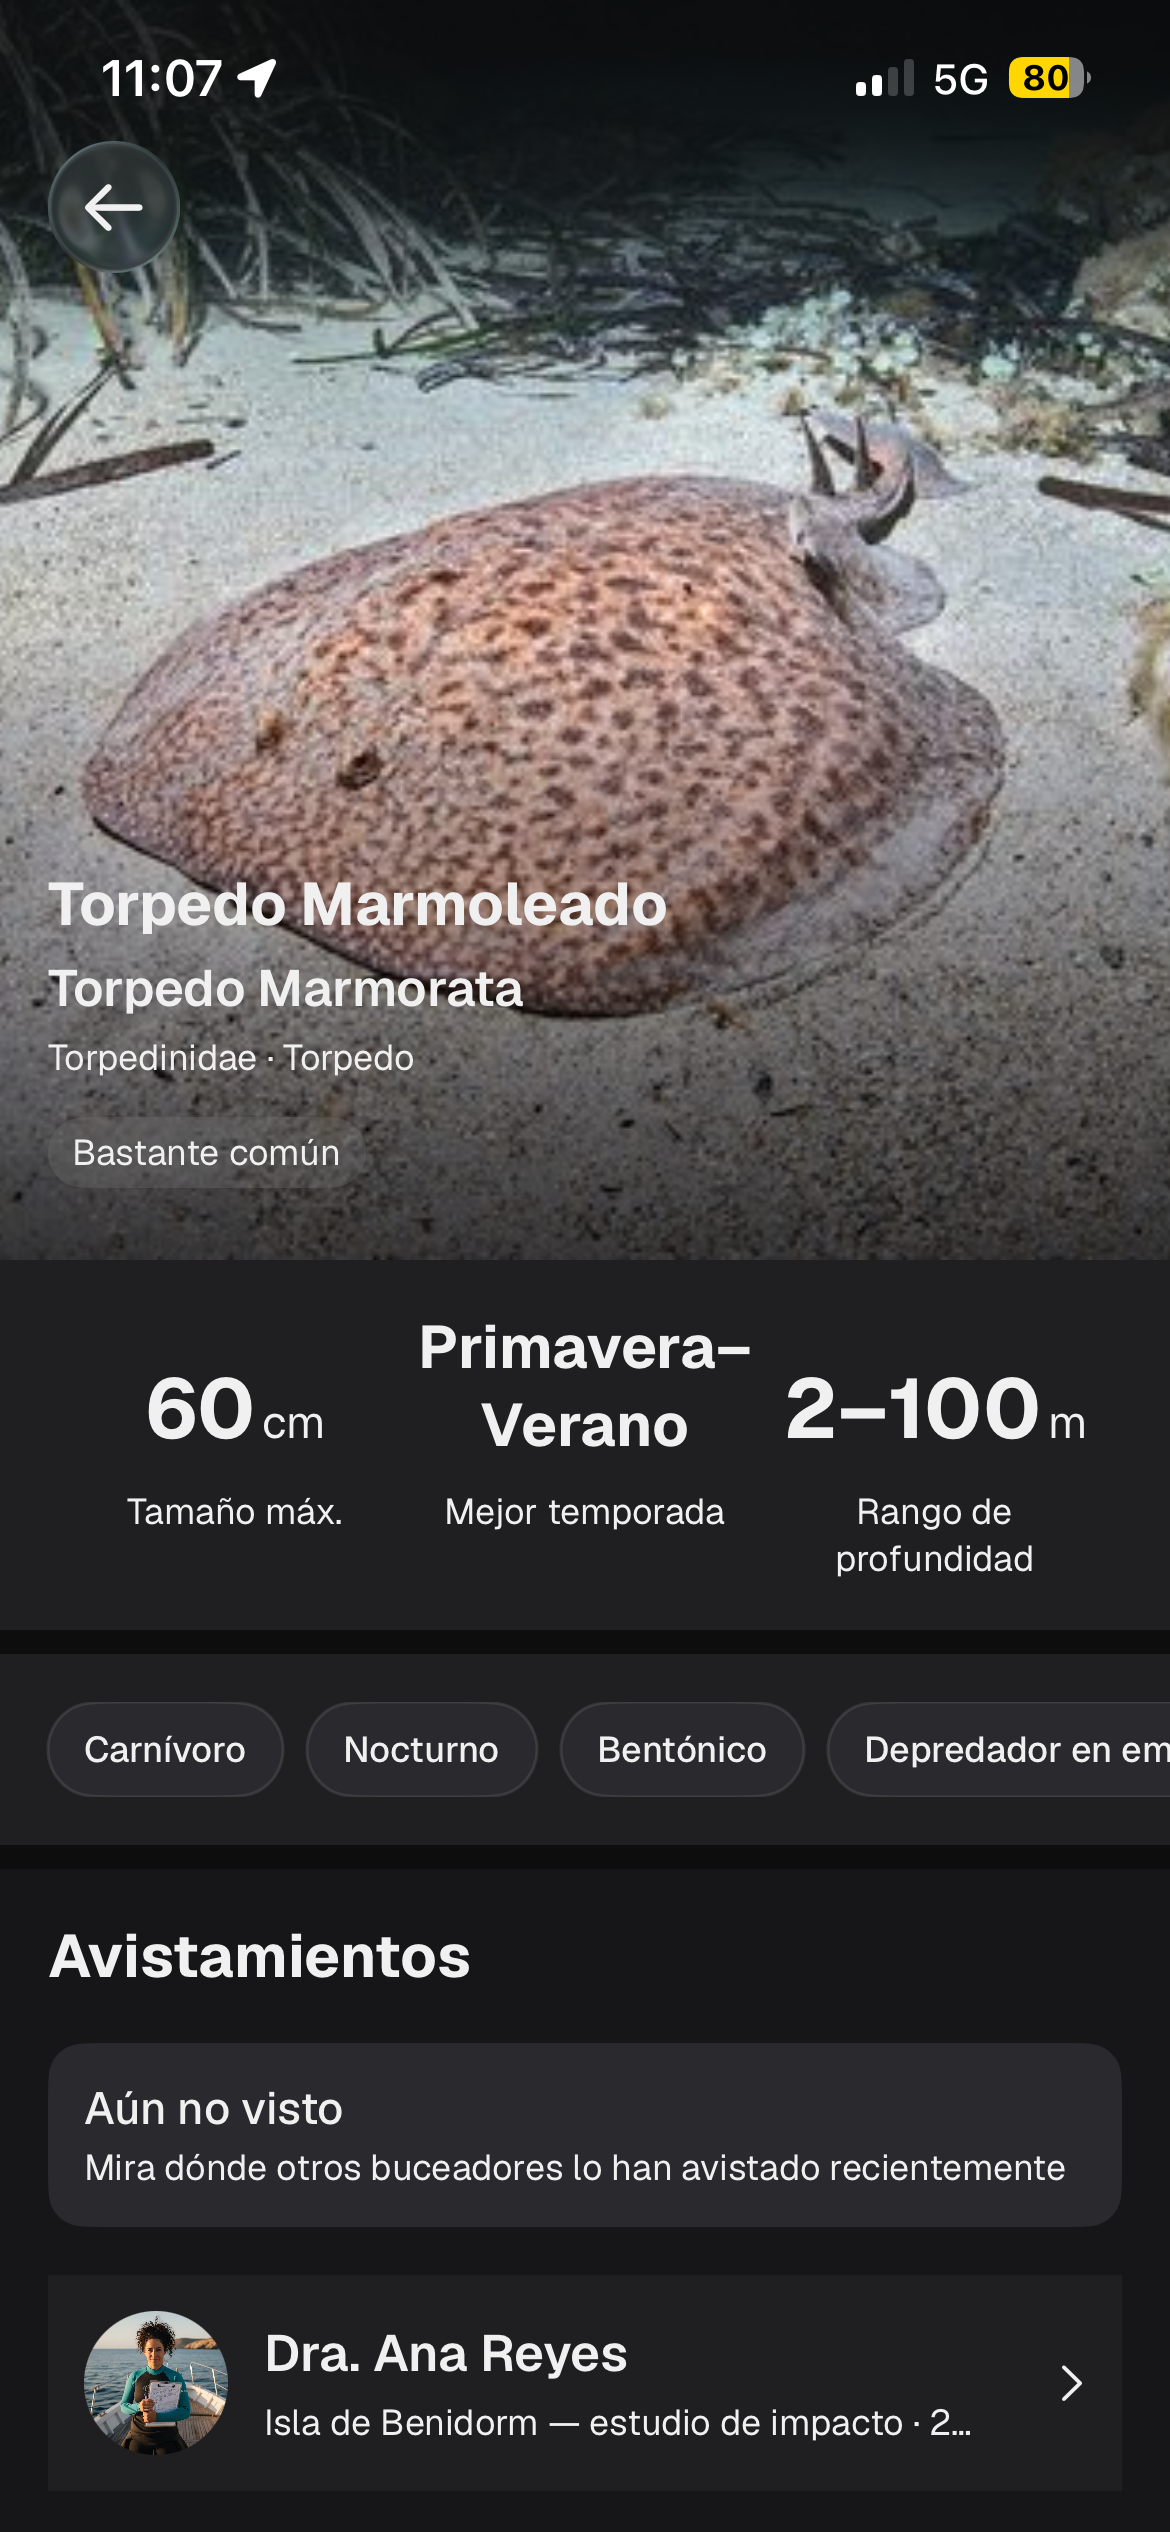
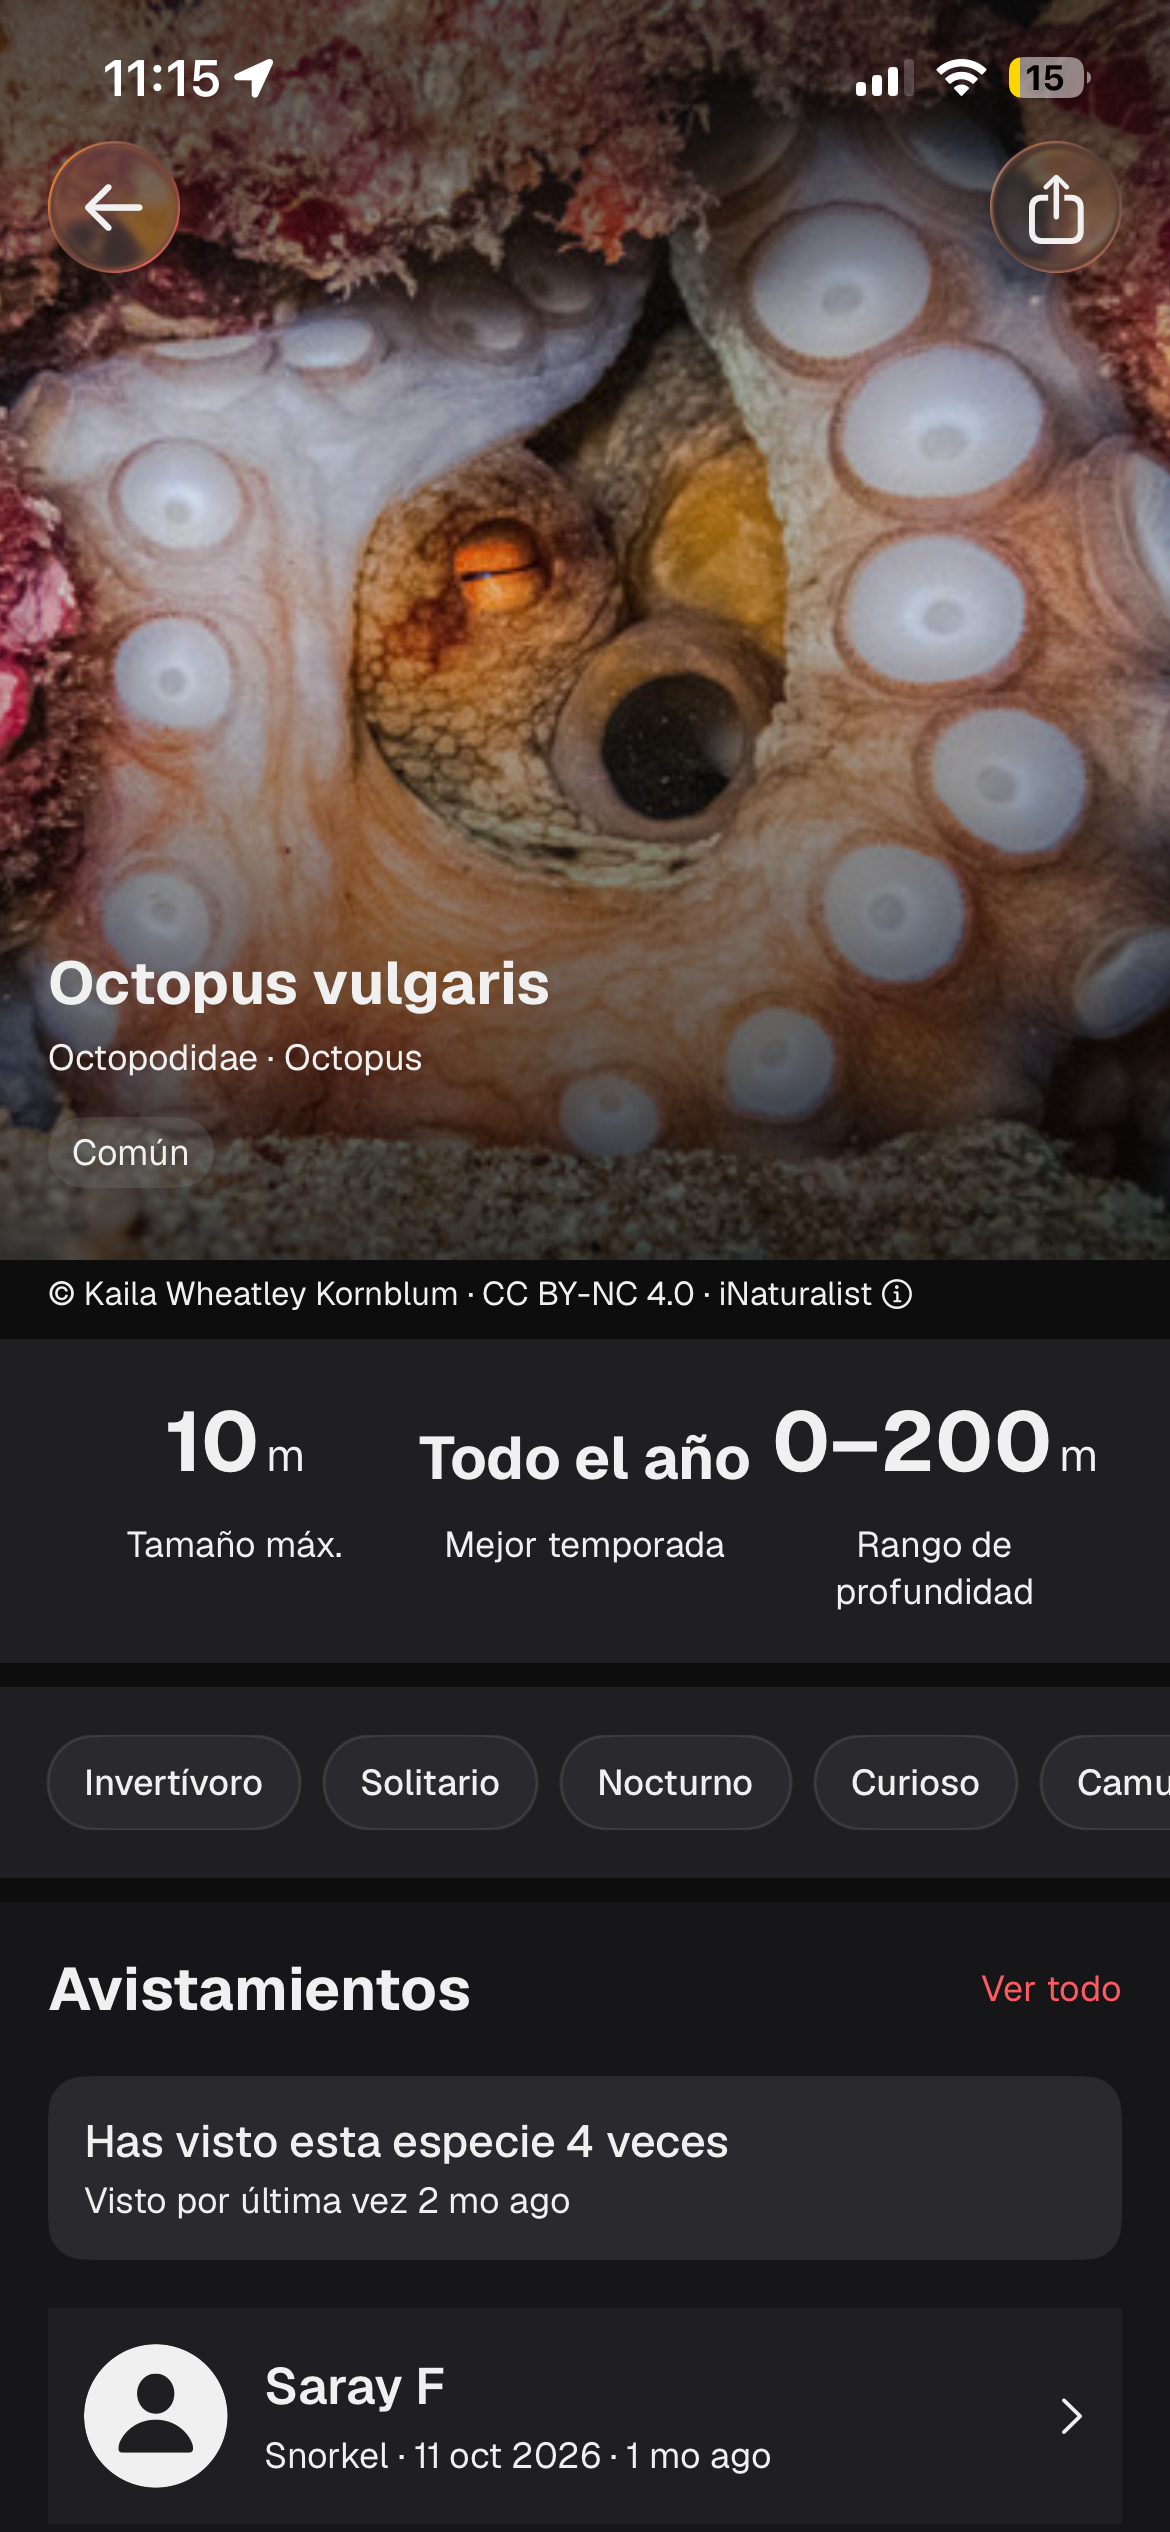
fix(landing): new species screenshots with correct scientific-name case
Replace the fish library and species detail screenshots: the old ones
showed title-cased binomials ("Caretta Caretta"), flagged by a marine
scientist. Update the site image credits to the photos in the new
screenshots (add Octopus vulgaris, Sepia officinalis, Thalassoma pavo;
drop Torpedo marmorata, no longer shown). Credits from the fishes image
credit columns.

screen-divesite-life.png is still the old one (needs a new device shot).

diff --git a/landing/credits/index.html b/landing/credits/index.html
@@ -190,7 +190,9 @@
   <h2 id="site-images" data-i18n="siteTitle">Imágenes de esta web</h2>
   <p data-i18n="siteIntro">Las capturas de la app en divera.app muestran fotos de especies de iNaturalist. Estos son sus autores y licencias:</p>
   <ul class="photo-credits">
-    <li><em>Torpedo marmorata</em>: <a href="https://www.inaturalist.org/photos/296434484" target="_blank" rel="noopener">© Luis P. B.</a> · <a href="https://creativecommons.org/licenses/by-nc/4.0/" target="_blank" rel="noopener license">CC BY-NC</a> · iNaturalist</li>
+    <li><em>Octopus vulgaris</em>: <a href="https://www.inaturalist.org/photos/177557549" target="_blank" rel="noopener">© Kaila Wheatley Kornblum</a> · <a href="https://creativecommons.org/licenses/by-nc/4.0/" target="_blank" rel="noopener license">CC BY-NC</a> · iNaturalist</li>
+    <li><em>Sepia officinalis</em>: <a href="https://www.inaturalist.org/photos/61586337" target="_blank" rel="noopener">© Bernat Garrigós</a> · <a href="https://creativecommons.org/licenses/by-nc/4.0/" target="_blank" rel="noopener license">CC BY-NC</a> · iNaturalist</li>
+    <li><em>Thalassoma pavo</em>: <a href="https://www.inaturalist.org/photos/232940420" target="_blank" rel="noopener">© Sylvain Le Bris</a> · <a href="https://creativecommons.org/licenses/by-nc/4.0/" target="_blank" rel="noopener license">CC BY-NC</a> · iNaturalist</li>
     <li><em>Chelonia mydas</em>: <a href="https://www.inaturalist.org/photos/248337518" target="_blank" rel="noopener">© Luis P. B.</a> · <a href="https://creativecommons.org/licenses/by-nc/4.0/" target="_blank" rel="noopener license">CC BY-NC</a> · iNaturalist</li>
     <li><em>Sarpa salpa</em>: <a href="https://www.inaturalist.org/photos/424954652" target="_blank" rel="noopener">© Guido and Carrara family</a> · <a href="https://creativecommons.org/licenses/by/4.0/" target="_blank" rel="noopener license">CC BY</a> · iNaturalist</li>
     <li><em>Eretmochelys imbricata</em>: <a href="https://www.inaturalist.org/photos/9696846" target="_blank" rel="noopener">© Kevin Bryant</a> · <a href="https://creativecommons.org/licenses/by-nc-sa/4.0/" target="_blank" rel="noopener license">CC BY-NC-SA</a> · iNaturalist</li>
